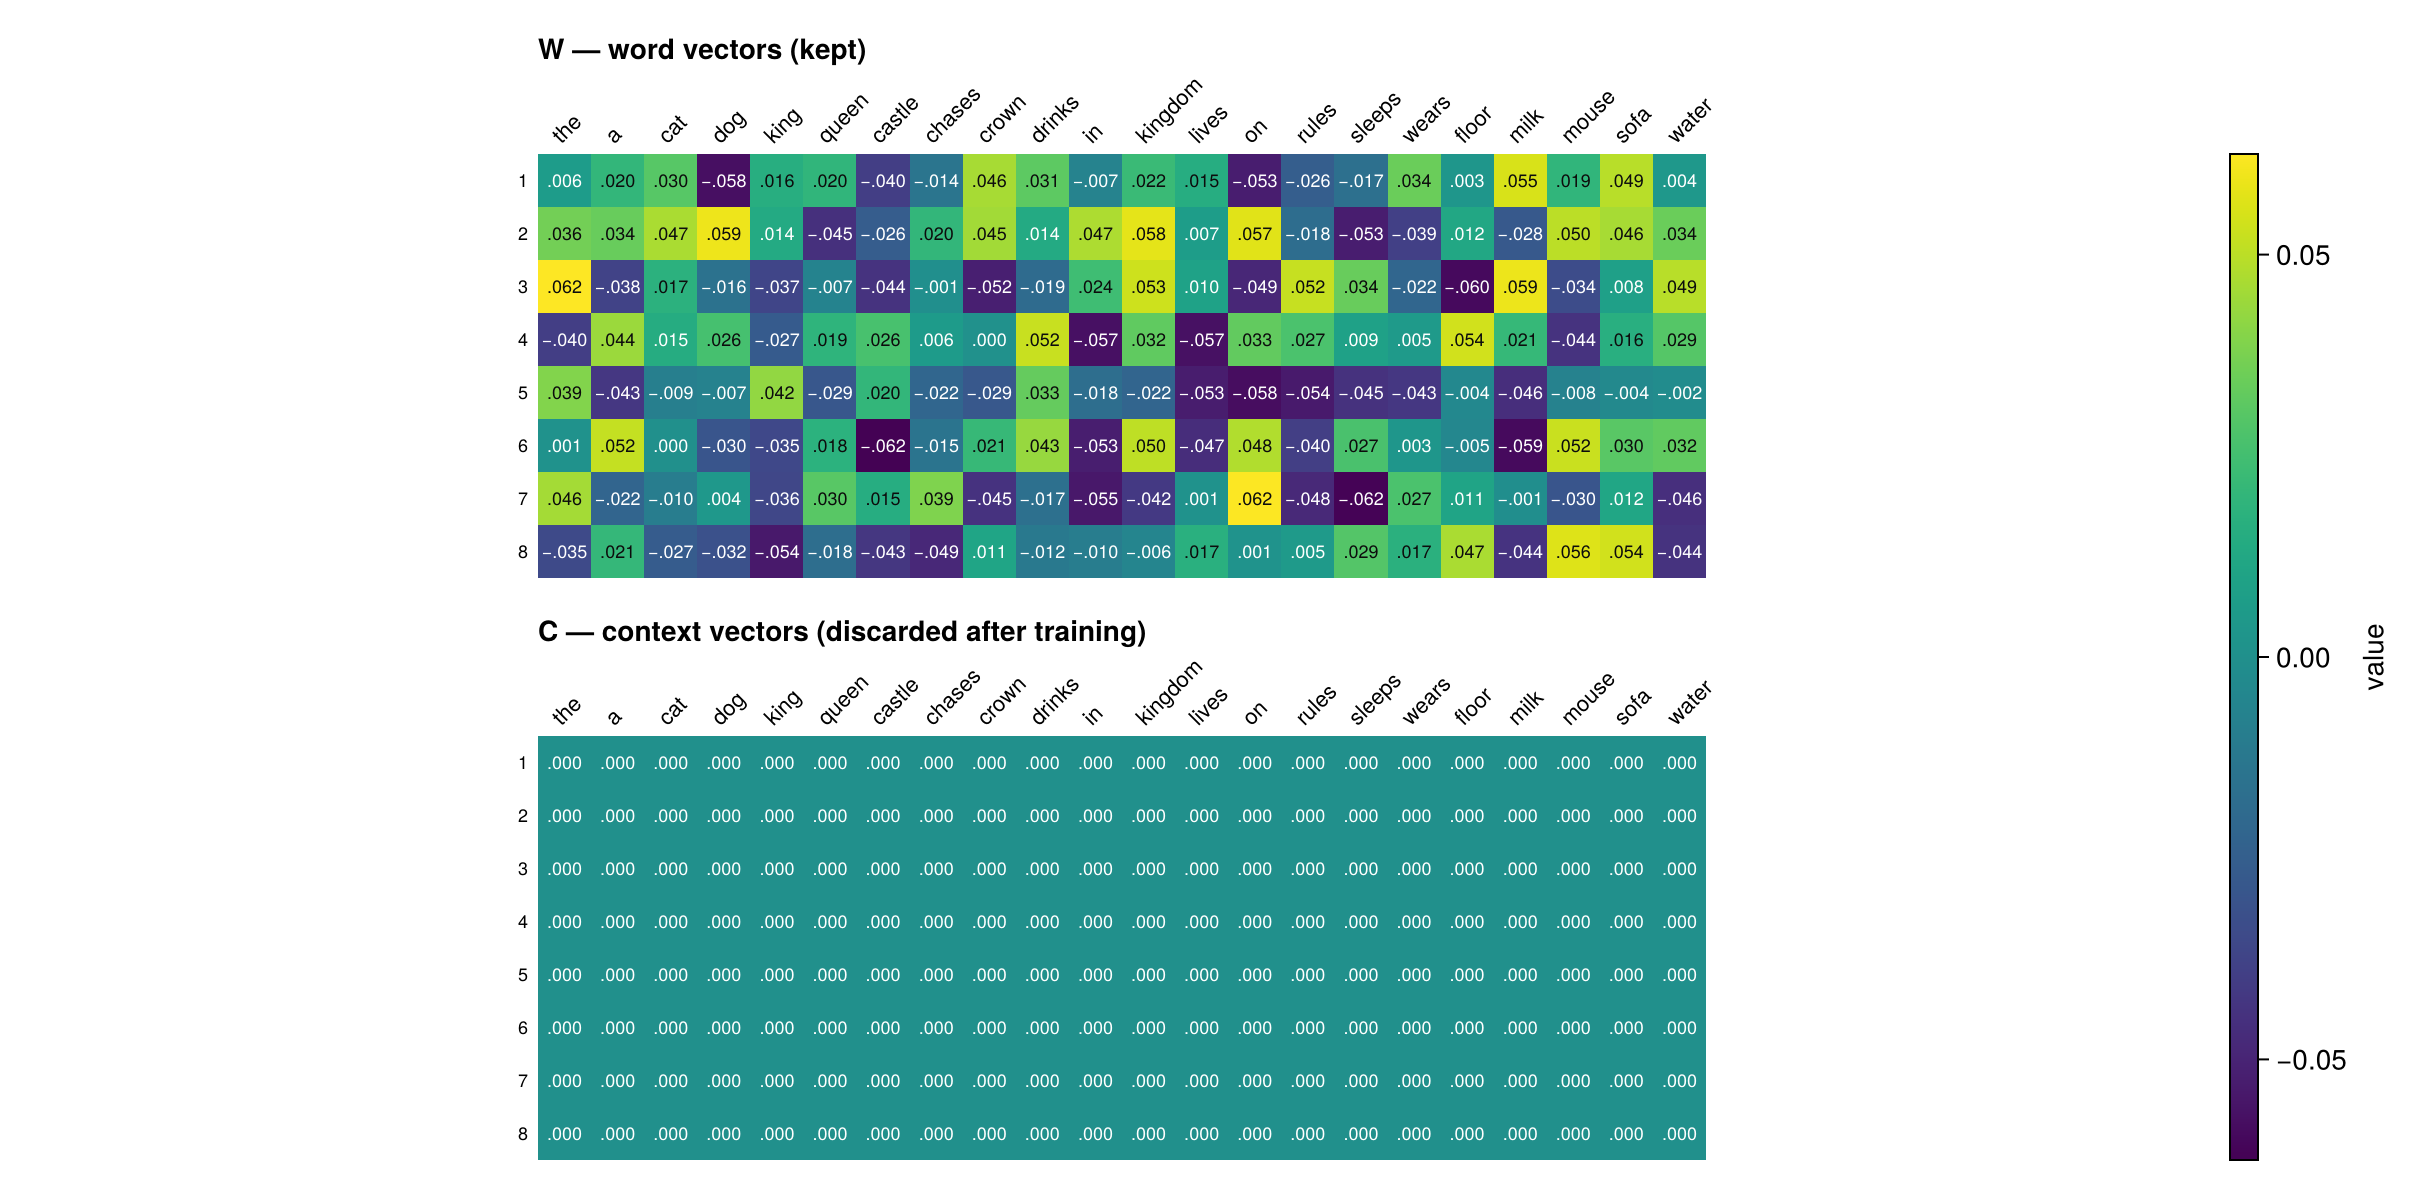
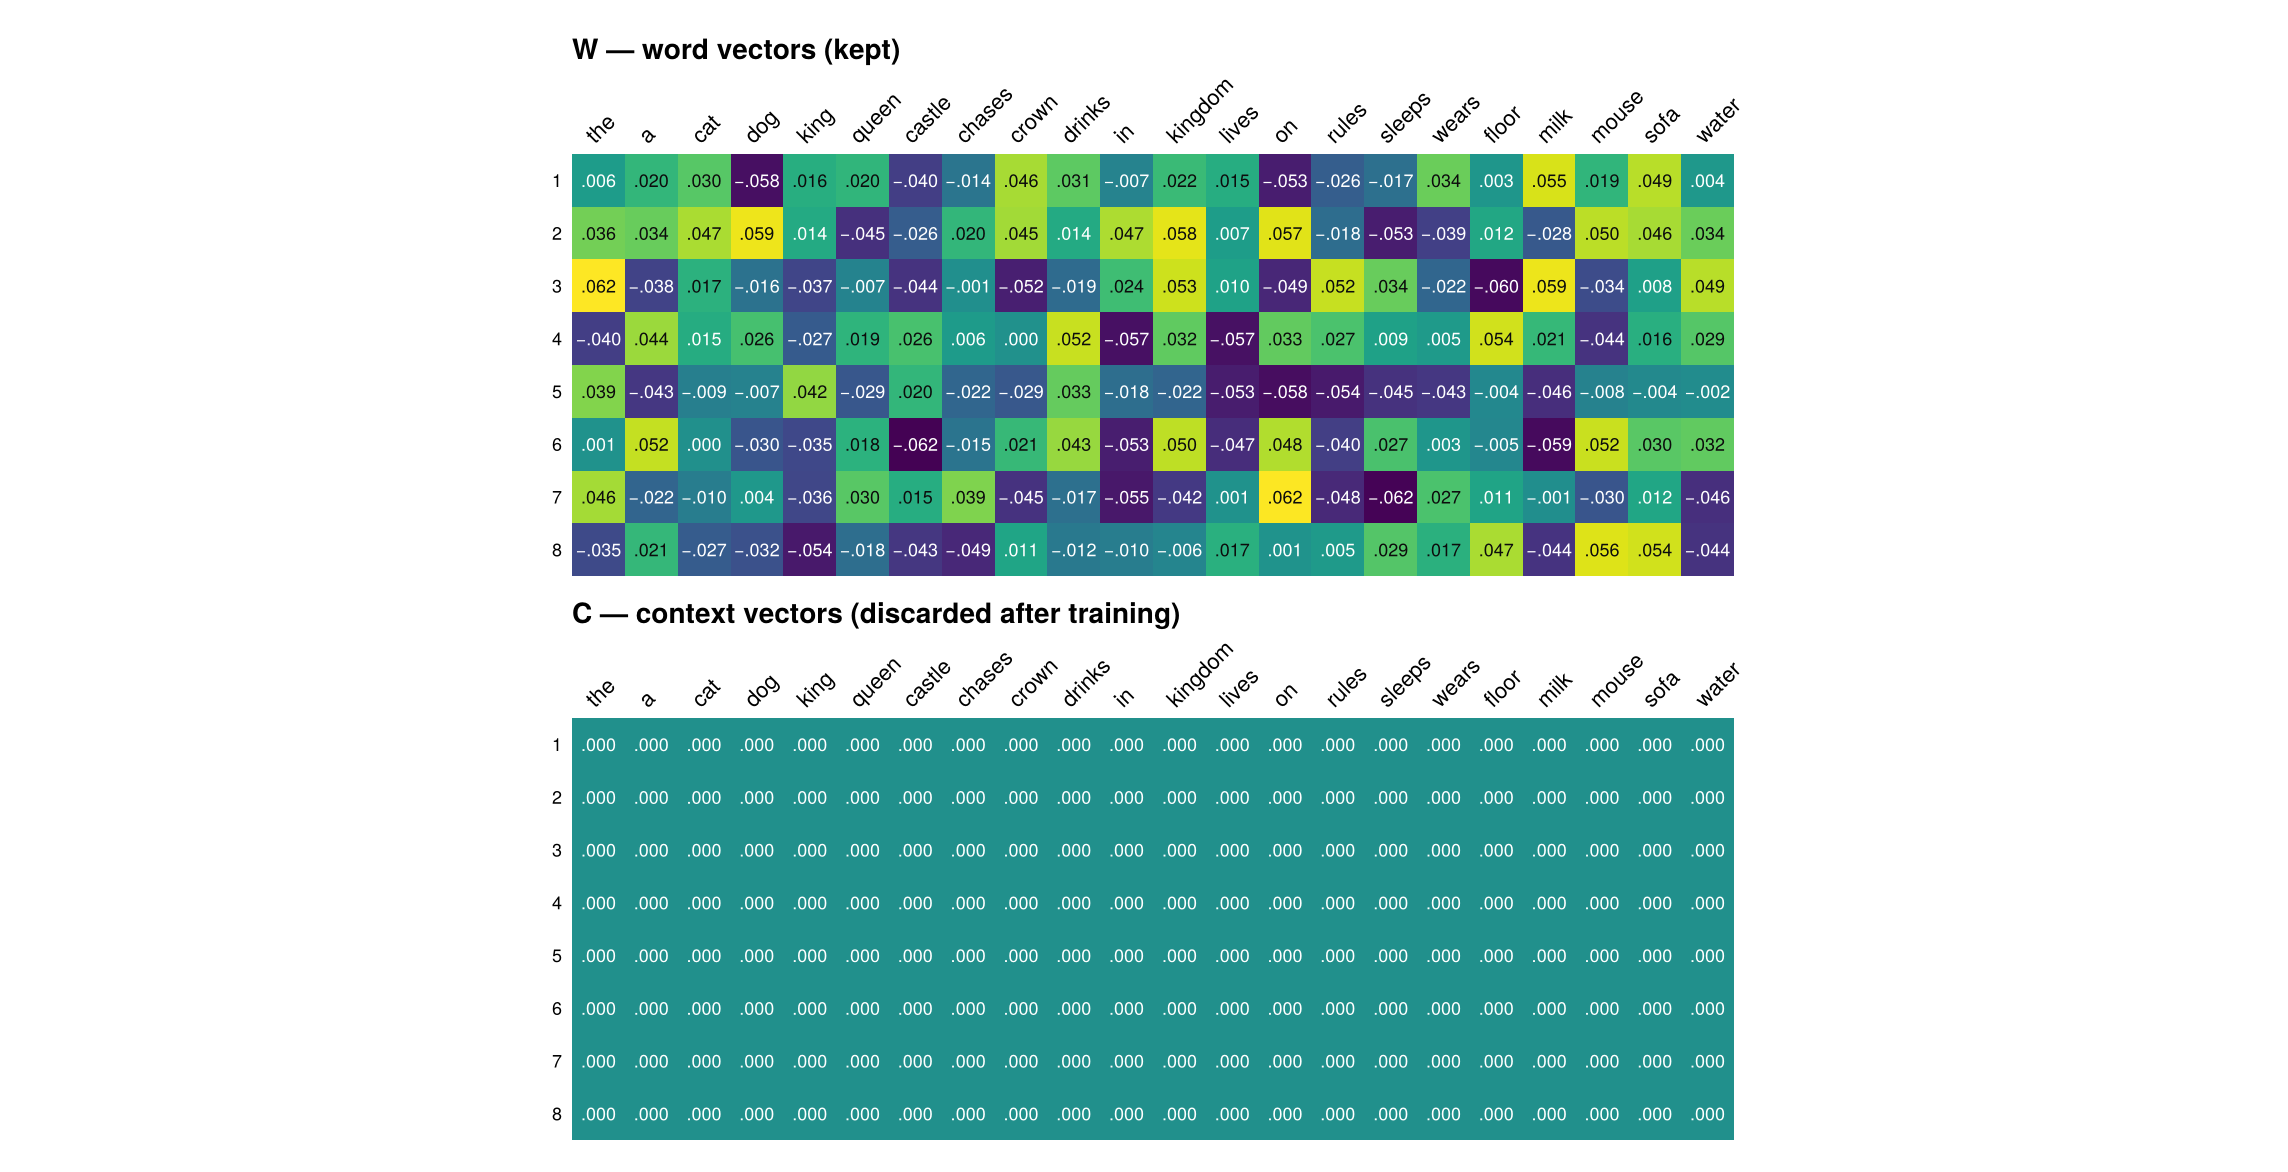
Install instructions for an unregistered package; colourbars off by default
The package is not in the General registry, so both the README and the
documentation home page now say how to install it from the repository
URL, how to pin a branch, what the optional Makie dependency buys, how
to work on a clone, what the Python experiment scripts need, and a
snippet to check the install. Verified by installing into a clean
environment from the URL.

plot_tables and plot_similarity_matrix no longer draw the colour scale
unless asked (colorbar = true): with every cell labelled it cost width
and added little. Figures regenerated.

Changed region(s): [[0.2172, 0.0307, 0.7758, 0.9829], [0.8999, 0.1229, 0.993, 0.9829]]

diff --git a/README.md b/README.md
@@ -92,10 +92,79 @@ plot_evolution(model, trainlog.snapshots)   # how they got there
 
 ## Installation
 
+This package is **not in the General registry**, so `Pkg.add("CustomTokenizer")`
+will not find it. Install it from the repository URL instead:
+
 ```julia
 using Pkg
-Pkg.develop(path = "path/to/CustomTokenizer")
-Pkg.add("CairoMakie")     # optional, for the figures
+Pkg.add(url = "https://github.com/geekymode/CustomTokenizer.jl")
+```
+
+or, in the Pkg REPL mode that `]` opens:
+
+```
+pkg> add https://github.com/geekymode/CustomTokenizer.jl
+```
+
+That tracks the default branch. To pin a branch or a tag, add `rev`:
+
+```julia
+Pkg.add(url = "https://github.com/geekymode/CustomTokenizer.jl", rev = "main")
+```
+
+Julia 1.9 or newer is required; the package is developed on 1.13. Updating
+later is `Pkg.update("CustomTokenizer")`; removing it is
+`Pkg.rm("CustomTokenizer")`.
+
+### Plots
+
+The figures need a Makie backend, which is a separate install because the core
+package deliberately depends on nothing beyond the standard library:
+
+```julia
+Pkg.add("CairoMakie")     # or GLMakie for an interactive window
+```
+
+Loading it is what activates `plot_tables` and the rest — no other
+change is needed.
+
+### Working on the package itself
+
+To edit the source, clone it and work in its own environment:
+
+```
+git clone https://github.com/geekymode/CustomTokenizer.jl
+cd CustomTokenizer.jl
+julia --project=. -e 'using Pkg; Pkg.instantiate(); Pkg.test()'
+```
+
+`Pkg.develop(path = ".")` from another environment points that environment at
+your clone, so edits take effect without reinstalling.
+
+### The experiment scripts
+
+`experiments/` compares this package with real LLM tokenizers and with
+published vectors. Those scripts are Python, and are not needed to use the
+package:
+
+```
+pip install tiktoken tokenizers huggingface_hub gensim
+```
+
+They download tokenizer files and word vectors (tens of MB), never model
+weights.
+
+### Checking that it works
+
+```julia
+using CustomTokenizer
+
+sentences = tokenize(TOY_TEXT)
+vocab     = build_vocab(sentences)
+model     = Model(vocab)
+train!(model, corpus_pairs(sentences, vocab; window = 2); epochs = 300)
+
+similarity(model, "king", "queen")     # ≈ 1.0 if everything is working
 ```
 
 ## Documentation

diff --git a/docs/src/index.md b/docs/src/index.md
@@ -62,10 +62,79 @@ a Makie backend.
 
 ## Installation
 
+This package is **not in the General registry**, so `Pkg.add("CustomTokenizer")`
+will not find it. Install it from the repository URL instead:
+
 ```julia
 using Pkg
-Pkg.develop(path = "path/to/CustomTokenizer")
-Pkg.add("CairoMakie")      # optional, for the figures
+Pkg.add(url = "https://github.com/geekymode/CustomTokenizer.jl")
+```
+
+or, in the Pkg REPL mode that `]` opens:
+
+```
+pkg> add https://github.com/geekymode/CustomTokenizer.jl
+```
+
+That tracks the default branch. To pin a branch or a tag, add `rev`:
+
+```julia
+Pkg.add(url = "https://github.com/geekymode/CustomTokenizer.jl", rev = "main")
+```
+
+Julia 1.9 or newer is required; the package is developed on 1.13. Updating
+later is `Pkg.update("CustomTokenizer")`; removing it is
+`Pkg.rm("CustomTokenizer")`.
+
+### Plots
+
+The figures need a Makie backend, which is a separate install because the core
+package deliberately depends on nothing beyond the standard library:
+
+```julia
+Pkg.add("CairoMakie")     # or GLMakie for an interactive window
+```
+
+Loading it is what activates [`plot_tables`](@ref) and the rest — no other
+change is needed.
+
+### Working on the package itself
+
+To edit the source, clone it and work in its own environment:
+
+```
+git clone https://github.com/geekymode/CustomTokenizer.jl
+cd CustomTokenizer.jl
+julia --project=. -e 'using Pkg; Pkg.instantiate(); Pkg.test()'
+```
+
+`Pkg.develop(path = ".")` from another environment points that environment at
+your clone, so edits take effect without reinstalling.
+
+### The experiment scripts
+
+`experiments/` compares this package with real LLM tokenizers and with
+published vectors. Those scripts are Python, and are not needed to use the
+package:
+
+```
+pip install tiktoken tokenizers huggingface_hub gensim
+```
+
+They download tokenizer files and word vectors (tens of MB), never model
+weights.
+
+### Checking that it works
+
+```julia
+using CustomTokenizer
+
+sentences = tokenize(TOY_TEXT)
+vocab     = build_vocab(sentences)
+model     = Model(vocab)
+train!(model, corpus_pairs(sentences, vocab; window = 2); epochs = 300)
+
+similarity(model, "king", "queen")     # ≈ 1.0 if everything is working
 ```
 
 ## Where to go next
